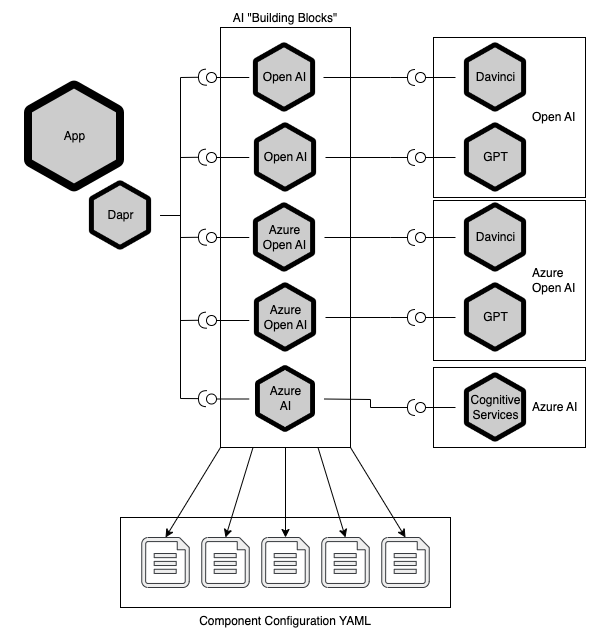
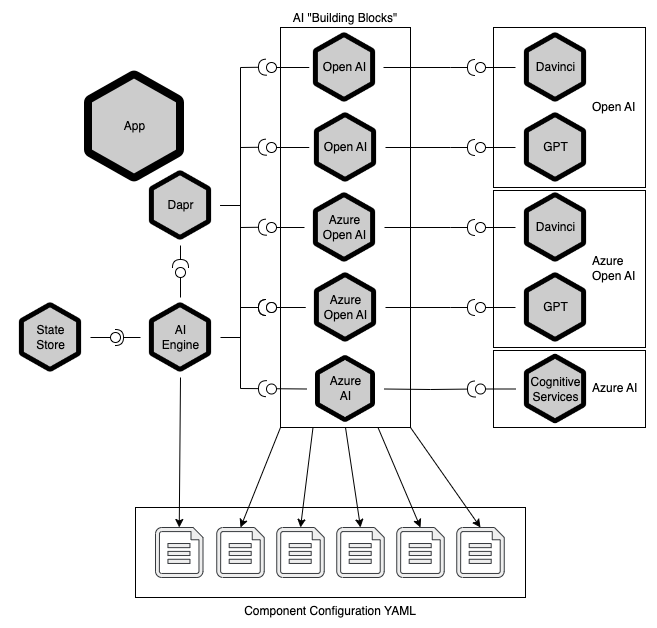
Update docs.

Changed region(s): [[0.0302, 0.0, 0.995, 0.9984], [0.6332, 0.6959, 0.6633, 0.7261], [0.3317, 0.7261, 0.3618, 0.7564]]

diff --git a/README.md b/README.md
@@ -20,11 +20,90 @@ Dapr applications communicate with external services through a set of configured
 
 While the Dapr runtime provides a large selection of built-in components for various services, developers can create "pluggable" components (using Dapr 1.9 onward) to access services not yet part of the runtime (or might be internal to the enterprise). Pluggable components can be created (today) for the state store, pub-sub, and input/output binding building blocks.
 
-This sample uses a set of output binding pluggable components to create an abstraction layer atop several different AI services: Open AI, Azure Open AI, and other Azure AI offerings such as Cognitive Services. Because each component implements the same set of operations, using the same request/response data, the application can switch between them no code changes. Cnfiguration files are then used to allow components the ability to connect with their respective services and control how the components function.
+This sample uses a set of output binding pluggable components to create an abstraction layer atop several different AI services: Open AI, Azure Open AI, and other Azure AI offerings such as Cognitive Services. Because each component implements the same set of operations, using the same request/response data, the application can switch between them no code changes. Configuration files are then used to allow components the ability to connect with their respective services and control how the components function.
+
+These AI components can be used by applications directly, but there are common patterns of use that lend themselves to higher-level orchestration.  For example, "chat" based language models typically require clients pass the entire history of a user's session for each completion, in order to provide the illusion of a continuous conversation. This implies a need to accumulate and manage session data, which would become a constant chore across applications. Conveniently, Dapr has a state store building block that can be used for that purpose. This is used by an "AI engine" component, another output binding itself, to expose an API that represents an AI service that maintains state. The engine uses its component configuration to determine which underlying AI service and state store is used.
 
 The application itself is a basic web API with two endpoints, `/complete` and `/summarize`, that act as a proxies for requests to the AI binding components to enable easy testing.  Those endpoints support an optional `component` query parameter to demonstrate the application switching between components with no code changes.
 
 ![Architecture Diagram](assets/dapr-ai-bindings-diagram.png)
+
+### AI Engine
+
+The "AI engine" consists of an output binding supporting the following operations:
+
+- **`createChat`:** create a chat session
+- **`completeText`:** request a "completion" of (i.e a response to) a user's text prompt
+- **`summarizeText`:** request the summarization of a text document (provided inline or via an URL)
+- **`terminateChat`:** delete a chat session
+
+Component configuration metadata:
+
+| Name | Required | Description |
+|---|---|---|
+| `aiName` | Yes | The name of the component to use as the underlying AI service |
+| `storeName` | Yes | The name of the component to use as the underlying state store |
+
+#### Create Chat
+
+The `createChat` operation enables the engine to track the prompts/responses of a chat session. The engine the provides the underlying AI service with that history on each subsequent request for a text completion.
+
+Creation expects a request of the form:
+
+```json
+{
+   "instanceId": "<A unique ID for the session>",
+   "system": "<If provided, instructions for how the assistant should respond to user prompts>"
+}
+```
+
+#### Text Completion
+
+The `completeText` operation continues a chat session with the next user prompt.
+
+Completion expects a request of the form:
+
+```json
+{
+   "instanceId": "<If provided, the ID of the session>",
+   "user": "The user's prompt (e.g. 'How are you?')>"
+}
+```
+
+> Note that, if the `instanceId` is omitted, completions will be provided with no historical context (i.e. it is a straight pass through to the underlying AI service).
+
+#### Text Summarization
+
+The `summarizeText` operation expect a request of the form:
+
+```json
+{
+   "text": "<If provided, the actual text to summarize>",
+   "url": "<If provided, a URL for the text document to summarize>"
+}
+```
+
+The engine makes the request via the underlying AI service and returns a response of the form:
+
+```json
+{
+   "summary": "<The AI summarization of the text>"
+}
+```
+
+> Note that summarization is performed with no historical context (i.e. it is a straight pass through to the underlying AI service).
+
+#### Terminate Chat
+
+The `terminateChat` operation enables the engine to remove the history of a chat session.
+
+Deletion expects a request of the form:
+
+```json
+{
+   "instanceId": "<The ID of the session>"
+}
+```
 
 ### AI Building Block
 
@@ -41,18 +120,24 @@ Components supporting the `completeText` operation expect a request of the form:
 
 ```json
 {
-   "system": "<(Optional) Instructions for how the AI should respond to the user>",
-   "prompt": "<The user's prompt (e.g. 'How are you?')>"
+   "history":
+   {
+      "items":
+      [
+         { "role": "system", message: "You are a helpful AI assistant." }
+      ]
+   },
+   "user": "<The user's prompt (e.g. 'How are you?')>"
 }
 ```
 
-> Note that some language models may ignore the system instructions, even when provided.
+> Note that some language models may ignore past chat history, even when provided.
 
 The components make the request of their respective service and are then expected to return a response of the form:
 
 ```json
 {
-   "response": "<The AI response to the user's prompt>"
+   "assistant": "<The AI assistant response to the user's prompt>"
 }
 ```
 
@@ -67,7 +152,7 @@ Components supporting the `summarizeText` operation expect a request of the form
 }
 ```
 
-The components make the requeset of their respective service and are then expected to return a response of the form:
+The components make the request of their respective service and are then expected to return a response of the form:
 
 ```json
 {
@@ -131,6 +216,7 @@ Component configuration metadata:
 - [Dapr 1.10](https://dapr.io/) or later
 - [.NET 7](https://dotnet.microsoft.com/) or later
 - Linux, MacOS, or Windows using WSL
+- A running Redis DB (such as the default Dapr state store container)
 
 To use the Chat GPT binding, you must have an Open AI account and an [API key](https://platform.openai.com/account/api-keys).
 
@@ -155,7 +241,10 @@ To use the `.http` files to send requests, install the [REST Client](https://mar
       "azure-open-ai-key": "<Azure Open AI API key>"
 
       "open-api-endpoint": "https://api.openai.com"
-      "open-api-key": "<Open AI API key>"
+      "open-api-key": "<Open AI API key>",
+
+      "ai-store-host": "<redis host>",
+      "ai-store-password": "<redis password>"
    }
    ```
 
@@ -179,7 +268,7 @@ To use the `.http` files to send requests, install the [REST Client](https://mar
    content-type: application/json
 
    {
-       "prompt": "How are you?"
+       "user": "How are you?"
    }
    ```
 
@@ -194,7 +283,7 @@ To use the `.http` files to send requests, install the [REST Client](https://mar
    Transfer-Encoding: chunked
 
    {
-     "response": "\n\nI'm doing well, thanks for asking. How are you?"
+     "assistant": "\n\nI'm doing well, thanks for asking. How are you?"
    }
    ```
 
